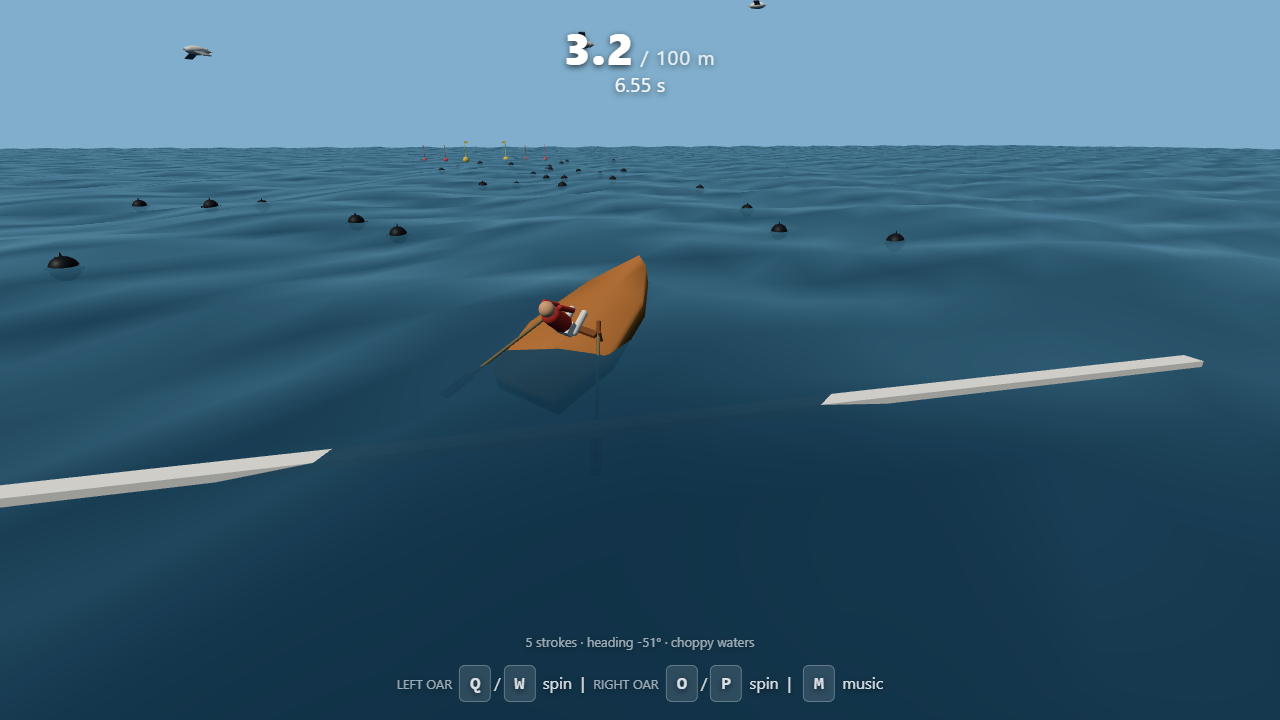
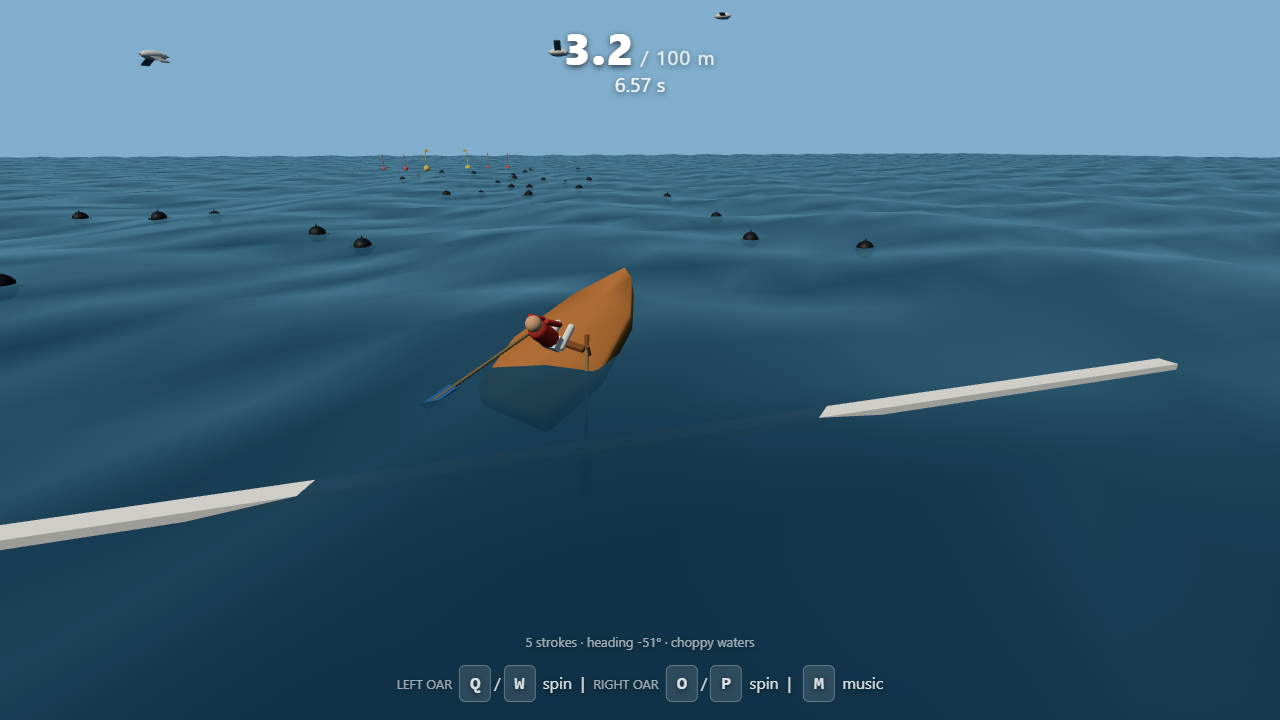
Guest-side feel: synced wave time on partners, camera follows freshest replica state, faster replica lerp

diff --git a/index.html b/index.html
@@ -1744,7 +1744,10 @@ const desired = new THREE.Vector3();
 const look = new THREE.Vector3();
 
 function myBoatState() {
-  if (duoMode && !amOwner && remotes.has(boatOwnerGid)) return remotes.get(boatOwnerGid).cur;
+  if (duoMode && !amOwner && remotes.has(boatOwnerGid)) {
+    const r = remotes.get(boatOwnerGid);
+    return { x: r.tgt.x, y: r.tgt.y, z: r.tgt.z, yaw: r.tgt.yaw, pitch: r.tgt.pitch, roll: r.tgt.roll };
+  }
   return { x: S.x, y: S.y, z: S.z, yaw: S.yaw, pitch: S.pitch, roll: S.roll };
 }
 
@@ -1793,7 +1796,7 @@ function updateRemoteBoats(dt) {
   for (const r of remotes.values()) {
     if (!r.active || !r.rig) continue;
     const c = r.cur, t = r.tgt;
-    const k = Math.min(1, dt * 8);
+    const k = Math.min(1, dt * 12);
     c.x += (t.x - c.x) * k; c.y += (t.y - c.y) * k; c.z += (t.z - c.z) * k;
     c.yaw += (t.yaw - c.yaw) * k; c.roll += (t.roll - c.roll) * k; c.pitch += (t.pitch - c.pitch) * k;
     c.aL += (t.aL - c.aL) * k; c.aR += (t.aR - c.aR) * k;
@@ -1953,7 +1956,7 @@ window.rowp = {
 
   water.position.x = S.x;
   water.position.z = S.z;
-  waterUniforms.uTime.value = started ? S.t : now / 1000;
+  waterUniforms.uTime.value = raceActive ? S.t : now / 1000;
   waterUniforms.uAmp.value = weatherMul;
   const wT = Math.max(0, Math.min(1, (weatherMul - 0.55) / 4.45));
   scene.background.set(0x87b8d8).lerp(new THREE.Color(0x40525c), wT);
